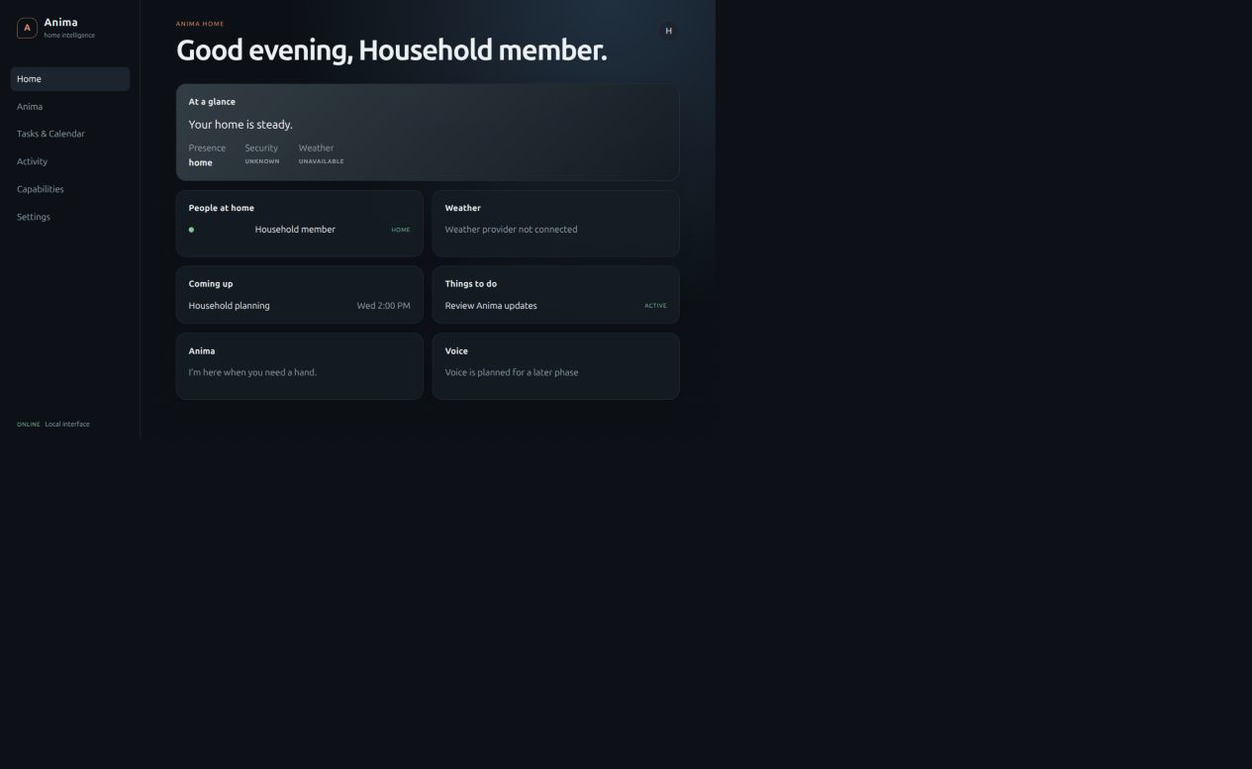
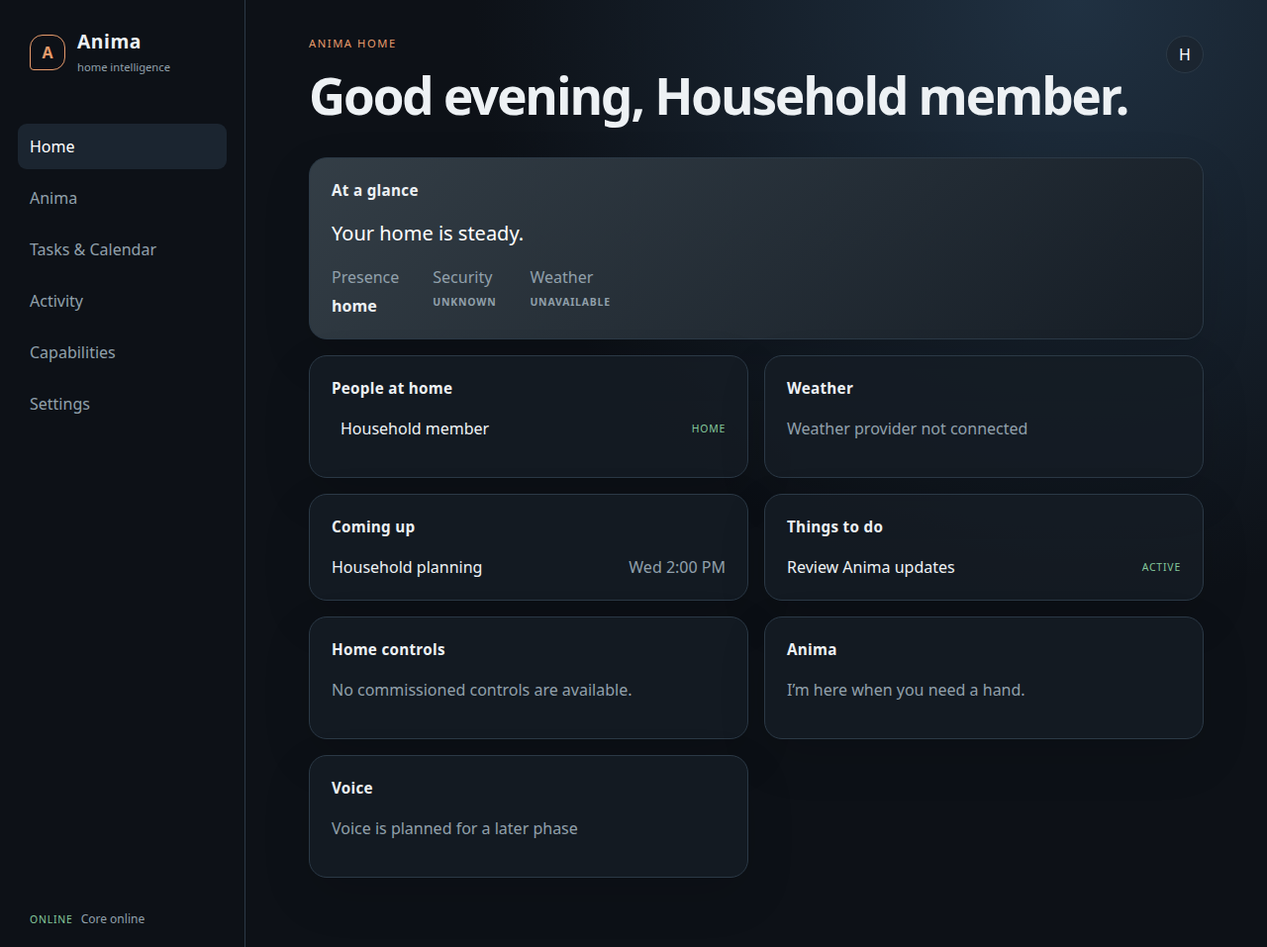
docs: close Phase 12 UX authority evidence

diff --git a/.agent/CURRENT.md b/.agent/CURRENT.md
@@ -4,31 +4,23 @@ Last updated: 2026-09-02
 
 ## Current stage
 
-PHASE 12 CUSTOM WHOLE-HOME INTERFACE — COMMISSIONED RUNTIME TRUTH CLOSURE; PENDING ARCHITECT ACCEPTANCE
+PHASE 12 CUSTOM WHOLE-HOME INTERFACE — FINAL UX/AUTHORITY CONVERGENCE; PENDING ARCHITECT ACCEPTANCE
 
 ## Current objective
 
-Deliver one shared locally hosted ANIMA interface with an ANIMA-owned API/view-model boundary, commissioned HA identity mapping, server-side hashed sessions, CSRF/origin defense, responsive React UI, bounded SSE invalidation, and production wiring to the accepted cognition/action stack. Phase 11 is Architect accepted; Phase 13 remains unauthorized.
+Deliver one shared locally hosted ANIMA interface with an ANIMA-owned API/view-model boundary, commissioned HA identity mapping, server-side hashed sessions, CSRF/origin defense, responsive React UI, bounded SSE invalidation, and production wiring to the accepted cognition/action stack. Phase 11 is Architect accepted; Phase 12 is complete pending Architect acceptance; Phase 13 remains unauthorized.
 
 ## Active directive
 
-`ANIMA-HA-P12-COMMISSIONED-RUNTIME-TRUTH-CLOSURE-014H2` — replace synthetic production commissioning seams with graph-derived identity, Truth/Graph read models, and configured accepted providers while preserving the Phase 12 portfolio boundary. Phase 11 is Architect accepted at `918365ce7c6145780112a808411d750fb0e289eb` with CI `33562645002`; Phase 12 remains pending Architect acceptance; Phase 13 is unauthorized.
+`ANIMA-HA-P12-FINAL-UX-AUTHORITY-ACCEPTANCE-CLOSURE-014H3` — complete the bounded final Phase 12 UX, authority, runtime-composition, evidence, and portfolio closure. Starting checkpoint: `7524cd67daee305e8e4bc4446623fa022fee0cd2` with hosted CI `33655737686` passed. Phase 11 is Architect accepted; Phase 12 remains pending Architect acceptance; Phase 13 is unauthorized.
 
 ## Current verified state
 
-- Phase 11 UPCitemdb implementation checkpoint: `2031f0a9ebded7e7a444516ab619f685d519349f`; hosted CI `33562526807` passed on that exact SHA. The provider is no-key and has no credential resource gate. The final live harness passed both required queries with five distinct products each.
-
-- Best Buy qualification checkpoint: governance commit
-  `7f5ddb0844195e2d558a2fbd24fac3101ae1d34e` is pushed to `origin/main` and
-  hosted CI `33509082116` passed on that exact SHA. The final evidence-closure
-  commit records the same outcome and its CI below.
-
-- Product-research closure started from governed Phase 11 checkpoint `23aa71d774c75529d7e8412e3060446d42a9cf4d`.
-- LedgerMind at `/home/sketch/Projects/LedgerMind` was inspected read-only on the Atlas laptop. Its status-only Walmart smoke test passed signature, catalogue, stores, and item-price probes; cart push remained unsupported. ANIMA copied the bounded contract, not credentials or runtime data.
-- ANIMA now exposes `anima.external.shopping.search_products` through a fixed `developer.api.walmart.com` host, ANIMA-generated RSA-SHA256 request signatures, trusted `SecretBroker` references, normalized `ProductCandidate` plus `retail_offer` data, timestamped external price/availability, and `EXTERNAL_UNTRUSTED` results. No cart, checkout, browser automation, scraping, CAPTCHA bypass, or arbitrary host is implemented.
-- Real AgentRuntime integration and provider tests pass. Credentialed Atlas live evidence returned 9 distinct candidates for `wireless headphones` and 10 for `air fryer`; both met the three-candidate usefulness threshold. Without the three operator secret references and a readable signing key, the provider remains an explicit `EXTERNAL_RESOURCE_GATE`.
-- Fresh locked validation: `uv sync --locked --dev`, Ruff, strict mypy, full pytest (`139 passed`), OPA, package sdist/wheel, `git diff --check`, and public-safety review passed. SearXNG/Overpass and existing Phase 1–10 evidence remain unchanged.
-- Phase 11 is Architect accepted at `918365ce7c6145780112a808411d750fb0e289eb`; Phase 12 is the active authorized phase. The current local integration delta uses the existing Core runtime objects rather than a UI-specific cognition or provider path.
+- The H3 implementation delta is local and limited to Phase 12: Core-owned role resolution, browser-bound OAuth nonce state, truthful capability health, PostgreSQL UI preferences, calendar version projections, real task/calendar/control UI paths, the decisive `create_app()` target, and refreshed responsive screenshots.
+- Normal configured `create_app()` composes PostgreSQL graph/Truth/journal/Attention/Context Broker/AgentRuntime/PluginManager/OPA/task/calendar/action dependencies. Only the model adapter is scripted in the deterministic target; `UnavailableCommandGateway` and the echo fallback are not selected in configured runtime.
+- `scripts/verify_phase12_final_ux.py` passed with `fallback_enabled=false`, a real Journal → Attention → ContextPacket → AgentRuntime trace, policy-gated task success, persisted settings, and explicit `EXTERNAL_RESOURCE_GATE_HA_COMMISSIONING` status.
+- Fresh validation passed: `uv sync --locked --dev`, `scripts/validate.sh` (166 Python tests, Ruff, strict mypy, OPA 7/7), package sdist/wheel, frontend unit tests, TypeScript/Vite build, Playwright 9-test desktop/tablet/phone matrix, migration repeat, commissioned-runtime target, final-UX target, `git diff --check`, and public-safety review.
+- Phase 11 active providers remain Open-Meteo, private SearXNG, OSM Overpass, TheMealDB, UPCitemdb, local PostgreSQL calendar, and ntfy. Walmart and Best Buy remain deferred historical candidates; no provider gate is silently substituted.
 
 ### Current product-provider replan
 
@@ -123,10 +115,8 @@ Deliver one shared locally hosted ANIMA interface with an ANIMA-owned API/view-m
 
 ## Current blockers
 
-- The commissioned-runtime implementation is published at `5d52c45c72520611de56361af9010419f2869c6c`; hosted CI `33654654675` passed on that exact SHA. The governed evidence closure and Architect review remain pending.
-- Production composition now derives HA identity from commissioned graph provider references (`home_assistant` / configured scope / `user`) and `MEMBER_OF` household edges; missing or ambiguous mappings fail closed. No synthetic mapping is used unless explicit `ANIMA_UI_TEST_AUTH=1` is enabled.
-- Production PostgreSQL read models now source household name, members, controls, and capabilities from the commissioned graph/Truth projection and Core plugin registry. Missing providers report neutral `UNKNOWN`/`UNAVAILABLE` state; they do not select demo data.
-- Real Home Assistant OAuth/commissioning, physical-home behavior, production TLS, and native ARM64/Pi execution remain unclaimed. The local target proves real PostgreSQL/OPA/Core composition with a scripted model adapter; HA remains an explicit commissioning gate on this host.
+- Phase 12 implementation checkpoint `37116b03c65bfac54a5261f30160e9030aa6011c` is published and hosted CI `33671817841` passed on that exact SHA. The final governed checkpoint is the closure commit containing this record; its exact SHA and hosted CI are recorded in the final Notion readback.
+- Real Home Assistant OAuth commissioning, physical-home behavior, production TLS, native ARM64/Pi execution, and live Luna credentials remain unclaimed. The local target proves real PostgreSQL/OPA/Core composition with only a scripted model adapter and reports HA as an explicit commissioning gate.
 - Phase 13 voice, checkout, compensation, and other successor behavior remain unauthorized.
 
 ## Latest accepted evidence
@@ -154,7 +144,7 @@ Deliver one shared locally hosted ANIMA interface with an ANIMA-owned API/view-m
 
 ## Next Architect decision point
 
-Review `ANIMA-HA-P12-COMMISSIONED-RUNTIME-TRUTH-CLOSURE-014H2` after the final governed checkpoint. Evidence covers graph-derived identity, real PostgreSQL/OPA task/calendar mutation, Journal → Attention → Context → AgentRuntime, active provider registry, explicit HA commissioning limits, browser privacy, and responsive screenshots. Phase 13 remains unauthorized.
+Review `ANIMA-HA-P12-FINAL-UX-AUTHORITY-ACCEPTANCE-CLOSURE-014H3` after the final governed checkpoint. Evidence covers role-derived policy context, browser-bound OAuth state, Core-routed conversation/task/calendar/control paths, PostgreSQL UI preferences, truthful capability health, browser privacy, and responsive screenshots. Phase 13 remains unauthorized.
 
 ## Phase 12 publication state — historical 014H checkpoint
 

diff --git a/docs/PHASE-12-CUSTOM-LOCAL-INTERFACE.md b/docs/PHASE-12-CUSTOM-LOCAL-INTERFACE.md
@@ -1,9 +1,11 @@
 # Phase 12 — Custom Whole-Home Interface
 
-Status: `COMPLETE — PENDING ARCHITECT ACCEPTANCE`; commissioned-runtime hardening and governed evidence closure are published.
+Status: `COMPLETE — PENDING ARCHITECT ACCEPTANCE`; final UX/authority convergence is published for independent review.
 
-Implementation checkpoint: `5d52c45c72520611de56361af9010419f2869c6c`; hosted CI `33654654675` passed on that exact SHA.
-Governed closure checkpoint: `bc7849dba3b65b837aacf2b16e8b7653fae97d08`; hosted CI `33655337251` passed on that exact SHA.
+Prior commissioned-runtime implementation checkpoint: `5d52c45c72520611de56361af9010419f2869c6c`; hosted CI `33654654675` passed on that exact SHA.
+Prior governed closure checkpoint: `bc7849dba3b65b837aacf2b16e8b7653fae97d08`; hosted CI `33655337251` passed on that exact SHA.
+
+Final UX/authority implementation checkpoint: `37116b03c65bfac54a5261f30160e9030aa6011c`; hosted CI `33671817841` passed on that exact SHA. The final governed checkpoint is the commit containing this closure record; its exact SHA and CI are recorded in the final Notion readback.
 
 Phase 11 is Architect accepted at `918365ce7c6145780112a808411d750fb0e289eb` with
 hosted CI `33562645002`. Phase 13 voice behavior is not implemented.
@@ -73,6 +75,24 @@ policy bypass. A missing configured dependency produces an explicit
 unavailable capability; the test-only echo remains behind
 `ANIMA_UI_TEST_AUTH=1`.
 
+## Final UX/authority convergence
+
+The current hardening keeps authority in Core at every browser boundary. The
+configured UI resolves the authenticated principal's semantic role from the
+commissioned graph for each command and conversation, and fails closed when
+that role is absent. Task and local-calendar mutations are policy-gated
+internal tools; home controls remain Phase 5 → Phase 4 → Phase 9 coordinated
+actions. No browser payload can provide role, provenance, provider identity, or
+execution authority.
+
+HA OAuth state is bound to the initiating browser by an expiring, single-use
+nonce cookie. Capability status is derived independently from plugin health and
+external-audit state, so degraded providers are not reported as online. UI
+preferences use migration `0014_ui_preferences.sql`, an allowlisted PostgreSQL
+store, CSRF/Origin-protected settings routes, and client-side application with
+no persistent browser storage. Calendar list projections include their
+optimistic-concurrency version.
+
 ## Stack qualification
 
 | Layer | Adopted version | Role | License/source |
@@ -121,7 +141,9 @@ maps the fixed test user. An unmapped HA user fails closed with
 | `GET /api/v1/tasks` | household-scoped task projection | session |
 | `POST /api/v1/tasks...` | task mutations | session + CSRF + Core gateway |
 | `GET /api/v1/calendar` | local calendar projection | session |
-| `POST /api/v1/calendar` | calendar mutation | session + CSRF + Core gateway |
+| `POST /api/v1/calendar` | calendar create mutation | session + CSRF + Core gateway |
+| `POST /api/v1/calendar/{event_id}/{operation}` | calendar update/cancel mutation | session + CSRF + Core gateway + expected version |
+| `GET /api/v1/settings` / `PUT /api/v1/settings` | allowlisted presentation preferences | session / session + CSRF + Origin |
 | `GET /api/v1/activity` | bounded sanitized activity | session |
 | `GET /api/v1/capabilities` | availability/health projection | session |
 | `POST /api/v1/conversation` | normalized direct-user request ingress | session + CSRF + journal → attention → context → AgentRuntime |
@@ -152,9 +174,10 @@ is present.
 
 ## Validation boundary
 
-Deterministic backend tests cover health/auth, single-use OAuth state, exact
-principal mapping, hashed sessions, expiry/revocation, CSRF/Origin, semantic
-view-model projection, journaled request provenance, and Core-routed commands.
+Deterministic backend tests cover health/auth, browser-bound single-use OAuth
+state, exact principal/role mapping, hashed sessions, expiry/revocation,
+CSRF/Origin, semantic view-model projection, journaled request provenance,
+allowlisted settings persistence, and Core-routed commands.
 The integrated composition test exercises the real AgentRuntime from an event
 trigger; the echo response is test-only and is not used by the normal
 configured path.

diff --git a/.agent/tasks/completed/ANIMA-HA-P12-FINAL-UX-AUTHORITY-ACCEPTANCE-CLOSURE-014H3/EVIDENCE.md b/.agent/tasks/completed/ANIMA-HA-P12-FINAL-UX-AUTHORITY-ACCEPTANCE-CLOSURE-014H3/EVIDENCE.md
@@ -1,0 +1,69 @@
+# Phase 12 H3 evidence
+
+## Publication
+
+- Starting governed checkpoint: `7524cd67daee305e8e4bc4446623fa022fee0cd2`; hosted CI `33655737686` passed.
+- Implementation checkpoint: `37116b03c65bfac54a5261f30160e9030aa6011c`; hosted CI `33671817841` passed on that exact SHA.
+- Final governed checkpoint: the governance commit containing this packet and the synchronized Authority/docs closure. Its exact SHA and hosted CI are recorded in the final handoff and Notion readback after push; the packet does not make a self-referential hash claim.
+
+## Architecture and target evidence
+
+- `create_app()` composes the real PostgreSQL graph, Truth, Event Journal,
+  Attention, Context Broker, AgentRuntime, PluginManager/Tool Gateway, OPA,
+  durable-task, local-calendar, and Phase 9 action dependencies when configured.
+- `CoreUICommandGateway` routes task, calendar, and home-control mutations
+  through the existing policy/tool boundaries. No API handler calls a domain
+  service directly.
+- `CoreConversationPipeline` routes the direct-user event through Journal →
+  Attention → ContextPacket → AgentRuntime. The deterministic target reports
+  linked event, trigger, context-packet, correlation, causation, and episode
+  IDs with `fallback_enabled=false`; only the model response is scripted.
+- Policy role is resolved from commissioned graph PERSON metadata for every
+  governed operation. Missing roles fail closed; browser payloads cannot set a
+  role or provenance.
+- HA OAuth state uses server-side expiry/single use plus an initiating-browser
+  nonce cookie. Mismatch, expiry, and replay are rejected.
+- Active external providers receive `ExternalAuditJournalSink(journal)` and
+  capability projections distinguish available, degraded, and unavailable.
+- Migration `0014_ui_preferences.sql` stores only allowlisted presentation
+  preferences. Calendar projections include event `version` for conflict-safe
+  update/cancel operations.
+
+## Validation
+
+- `uv sync --locked --dev`: PASS.
+- `scripts/validate.sh`: PASS — 166 Python tests, Ruff, strict mypy, OPA 7/7.
+- `uv build --sdist --wheel`: PASS.
+- Frontend `pnpm test`: PASS — 2 tests.
+- Frontend TypeScript/Vite production build: PASS.
+- Playwright: PASS — 9 tests across desktop, tablet, and phone.
+- PostgreSQL migration initial/repeat: PASS — no pending migrations on repeat.
+- `verify_phase12_commissioned_runtime.py`: PASS — real PostgreSQL/OPA/Core
+  composition, graph identity, policy-gated task/calendar mutation, and
+  Journal → Attention → ContextPacket → AgentRuntime trace.
+- `verify_phase12_final_ux.py`: PASS — configured `create_app()` composition,
+  real task mutation, conversation trace, settings persistence, and explicit
+  HA commissioning gate.
+- `git diff --check`: PASS.
+- Public-safety scan: PASS — no credentials, private keys, runtime state, or
+  secret material added.
+
+## Browser evidence
+
+Screenshots were captured from the running application with synthetic data and
+the explicit test-auth flag, then MIME-verified as PNG:
+
+- `docs/assets/anima-home-desktop.png`
+- `docs/assets/anima-home-tablet.png`
+- `docs/assets/anima-home-phone.png`
+
+The Playwright matrix also passed same-origin API/network posture, dashboard,
+conversation, navigation, and responsive viewport checks. Browser persistent
+storage remains unused; restricted product content is not persisted by the UI.
+
+## Evidence limits
+
+No live Home Assistant OAuth consent, physical-home behavior, production TLS,
+live Luna credential turn, native ARM64/Pi execution, or real household-data
+claim is made. HA remains an explicit commissioning gate on this host. Phase
+13 Voice Software Path was not implemented.

diff --git a/.agent/DIRECTIVES.md b/.agent/DIRECTIVES.md
@@ -405,6 +405,17 @@ Append new directives at the bottom; never rewrite an accepted historical direct
 - Required operator action: inspect only nonsecret Walmart.io/Impact application metadata in an already-authorized session, then obtain narrow Walmart clarification if the private local assistant/data/link use is not explicit. No account changes or agreement acceptance are authorized.
 - Source: Architect directive supplied in the governed session and recorded in the canonical Notion SSOT.
 
+## ANIMA-HA-P12-FINAL-UX-AUTHORITY-ACCEPTANCE-CLOSURE-014H3 — Final UX and authority convergence
+
+- Issued: 2026-09-02
+- Architect disposition: `CONTINUE / FINAL CONVERGENCE`; Phases 0–11 accepted; Phase 13 unauthorized.
+- Starting governed checkpoint: `7524cd67daee305e8e4bc4446623fa022fee0cd2`; hosted CI `33655737686` passed on that exact SHA.
+- Objective: close the bounded Phase 12 authority, production-composition, UI capability, preferences, real task/calendar/control-path, browser-evidence, portfolio, and governance gaps without changing accepted Phase 0–11 architecture.
+- Bounded implementation: graph-derived semantic roles are re-resolved for each governed operation; HA OAuth state is browser-bound, expiring, and single-use; active external providers receive journal audit sinks; capabilities report available/degraded/unavailable honestly; preferences use allowlisted PostgreSQL migration `0014_ui_preferences.sql`; calendar version is returned for conflict-safe UI mutation; task/calendar/control and conversation paths remain Core/Phase 5/4/9 routed.
+- Evidence: `scripts/verify_phase12_final_ux.py` passed against real PostgreSQL/OPA/Core composition with only a scripted model; `scripts/validate.sh` passed 166 tests, Ruff, strict mypy, and OPA 7/7; frontend tests/build/Playwright 9-test responsive matrix, migrations, package build, screenshots, diff-check, and public-safety checks passed.
+- Evidence limits: HA OAuth commissioning, physical-home execution, live Luna credentials, native ARM64/Pi, production TLS, and real household data remain unclaimed. Phase 12 status is `COMPLETE — PENDING ARCHITECT ACCEPTANCE`; Phase 13 was not implemented.
+- Source: Architect directive supplied in the governed session and retained as the active continuity record.
+
 ## ANIMA-HA-P12-COMMISSIONED-RUNTIME-TRUTH-CLOSURE-014H2 — Commissioned runtime truth closure
 
 - Date: 2026-09-02

diff --git a/.agent/OUTCOMES.md b/.agent/OUTCOMES.md
@@ -717,3 +717,12 @@ Evidence is x86-64 and local/isolated; native ARM64/Pi, physical-home, productio
 - Implementation checkpoint: `5d52c45c72520611de56361af9010419f2869c6c`; hosted CI `33654654675` passed on that exact SHA.
 - The checkpoint publishes the commissioned graph-identity resolver, graph/Truth/plugin-backed PostgreSQL UI read models, accepted Phase 11 provider composition, explicit HA commissioning configuration, and the deterministic real PostgreSQL/OPA verification target. No Phase 13 behavior was added.
 - Governed closure checkpoint: `bc7849dba3b65b837aacf2b16e8b7653fae97d08`; hosted CI `33655337251` passed on that exact SHA. Status: `COMPLETE — PENDING ARCHITECT ACCEPTANCE`.
+
+## ANIMA-HA-P12-FINAL-UX-AUTHORITY-ACCEPTANCE-CLOSURE-014H3 — Final convergence
+
+- Starting governed checkpoint: `7524cd67daee305e8e4bc4446623fa022fee0cd2`; hosted CI `33655737686` passed on that exact SHA.
+- Implementation checkpoint: `37116b03c65bfac54a5261f30160e9030aa6011c`; hosted CI `33671817841` passed on that exact SHA.
+- Implementation result: configured `create_app()` now composes the existing PostgreSQL/OPA/Core cognition and command stack; semantic role is resolved from commissioned graph authority per operation; OAuth state is browser-bound and single-use; external audit sinks and capability-health projections are active; allowlisted UI preferences persist in PostgreSQL; calendar versions support honest UI concurrency; task/calendar/control UI operations use the existing governed gateways.
+- Evidence: `scripts/validate.sh` passed 166 Python tests, Ruff, strict mypy, and OPA 7/7; frontend unit tests, TypeScript/Vite build, Playwright 9-test responsive matrix, package build, repeat migrations, commissioned-runtime target, final-UX target, screenshot capture/MIME checks, diff-check, and public-safety review passed.
+- Final governed checkpoint: this governance closure commit, pushed after the implementation checkpoint and exact implementation CI. Its exact SHA and hosted CI are recorded in the final Notion readback; the closure files avoid a self-referential hash claim.
+- Verdict: `COMPLETE — PENDING ARCHITECT ACCEPTANCE`. Evidence limits remain live HA commissioning, physical-home behavior, live Luna credentials, native ARM64/Pi execution, production TLS, and real household data. Phase 13 was not implemented.

diff --git a/README.md b/README.md
@@ -49,6 +49,7 @@ These screenshots are captured from the tested local application with synthetic 
 - Home Assistant OAuth boundary, exact principal mapping, hashed server sessions, CSRF/origin protection, and same-origin browser policy.
 - Configured conversation composition into Attention, Context Broker, and AgentRuntime; task and local-calendar mutations use the Phase 5/4 policy path.
 - Phase 9-coordinated semantic home controls when a commissioned Home Assistant provider is available.
+- Core-owned identity roles are re-resolved for every governed operation; UI preferences are allowlisted and persisted in PostgreSQL; OAuth state is browser-bound, expiring, and single-use.
 - Bounded external capabilities: Open-Meteo, private SearXNG, OSM Overpass, TheMealDB, UPCitemdb, local PostgreSQL calendar, and ntfy; provider activation is composed by Core and unavailable providers are reported honestly.
 - Restart-safe durable tasks, guaranteed scheduled-reasoning events, fresh due-time context, and restricted external-content handling.
 
@@ -58,7 +59,7 @@ Identity and policy are ANIMA-owned. Tool schemas expose intent, not secrets or 
 
 ## Evidence
 
-Phases 0–11 are Architect accepted. Phase 12 is the active integration and portfolio phase. The [Authority state](.agent/CURRENT.md), [Phase 12 documentation](docs/PHASE-12-CUSTOM-LOCAL-INTERFACE.md), and completed task packet distinguish deterministic contract tests, integration tests, isolated Home Assistant evidence, live public synthetic provider evidence, and unperformed production commissioning.
+Phases 0–11 are Architect accepted. Phase 12 implementation is complete and pending Architect acceptance. The [Authority state](.agent/CURRENT.md), [Phase 12 documentation](docs/PHASE-12-CUSTOM-LOCAL-INTERFACE.md), and completed task packet distinguish deterministic contract tests, integrated PostgreSQL/OPA evidence, isolated Home Assistant evidence, live public synthetic provider evidence, and unperformed production commissioning.
 
 ## Implemented Phase 0 through Phase 11 baseline
 

diff --git a/.agent/REPO_MAP.md b/.agent/REPO_MAP.md
@@ -131,11 +131,14 @@ The `src/anima_ha/db` area owns ordered migrations. Phase 1 journal/truth behavi
 
 - `src/anima_ha/ui_api.py` — ANIMA-owned FastAPI semantic API, HA OAuth bootstrap, exact identity mapping, hashed sessions/CSRF, bounded SSE invalidations, and fail-closed Core command/conversation seams.
 - `src/anima_ha/db/migrations/0013_ui_sessions.sql` — server-side UI session/CSRF digest schema.
+- `src/anima_ha/db/migrations/0014_ui_preferences.sql` — bounded allowlisted PostgreSQL UI preference storage.
+- `scripts/verify_phase12_final_ux.py` — deterministic real `create_app()` PostgreSQL/OPA/Core composition target; only the model response is scripted.
 - `ui/` — React/TypeScript/Vite responsive single-page interface, same-origin browser policy tests, and Playwright desktop/tablet/phone scenarios.
 - `Dockerfile.ui` and `compose.yaml` — reproducible non-root local UI image and loopback-published Compose service.
 - `scripts/verify_phase12_ui.py` and `tests/test_ui_api.py` — deterministic API/auth/view-model/CSRF/SSE evidence.
 - `docs/PHASE-12-CUSTOM-LOCAL-INTERFACE.md` — current interface architecture, security boundary, deployment, and evidence limitations.
-- `.agent/tasks/active/ANIMA-HA-P12-CUSTOM-LOCAL-INTERFACE-014/` — active Phase 12 specification, plan, evidence ledger, and handoff.
+- `.agent/tasks/completed/ANIMA-HA-P12-CUSTOM-LOCAL-INTERFACE-014/` — historical Phase 12 specification, evidence ledger, and handoff.
+- `.agent/tasks/completed/ANIMA-HA-P12-FINAL-UX-AUTHORITY-ACCEPTANCE-CLOSURE-014H3/` — final UX/authority convergence evidence and governance packet.
 - `docs/assets/anima-home-desktop.png`, `anima-home-tablet.png`, `anima-home-phone.png` — responsive screenshots captured from the tested UI with synthetic data.
 
 ## Known sensitive/high-risk areas

diff --git a/.agent/LEARNINGS.md b/.agent/LEARNINGS.md
@@ -182,3 +182,11 @@ Any future history rewrite proposal, remote migration, or change to the reposito
 - Production identity must resolve from commissioned provider references to a canonical person and graph membership, never from a UI fallback map or display name. Exact-zero and multi-target results are distinct fail-closed outcomes.
 - The normal PostgreSQL composition can register no-key/qualified Phase 11 providers without activating Walmart or Best Buy; Home Assistant must remain unavailable until its instance, websocket, provider scope, and secret reference are complete.
 - Production read models must consume the graph, Truth projection, and plugin registry. A missing provider is an explicit capability/state result, not a reason to reuse deterministic demo household content.
+
+## ANIMA-HA-P12-FINAL-UX-AUTHORITY-ACCEPTANCE-CLOSURE-014H3
+
+- UI policy context must resolve semantic role from the commissioned graph at the Core boundary for each request; a browser session proves identity but must not carry or choose authorization role.
+- OAuth callback state needs a browser-bound nonce cookie in addition to a server-side expiring single-use state record; state-only validation does not bind the initiating browser.
+- Capability health is a projection, not a static manifest label: plugin enablement, latest provider error, and external audit evidence must distinguish available from degraded and unavailable.
+- Calendar UI mutation needs the server-projected optimistic-concurrency version; otherwise a later update can unknowingly reuse a stale expected version.
+- Persistent PostgreSQL evidence targets must be rerunnable against existing fixtures. Synthetic commissioning IDs/scopes must not collide across separate targets, or the production resolver correctly fails closed on ambiguous mappings.

diff --git a/.agent/tasks/completed/ANIMA-HA-P12-FINAL-UX-AUTHORITY-ACCEPTANCE-CLOSURE-014H3/HANDOFF.md b/.agent/tasks/completed/ANIMA-HA-P12-FINAL-UX-AUTHORITY-ACCEPTANCE-CLOSURE-014H3/HANDOFF.md
@@ -1,0 +1,20 @@
+# Handoff — ANIMA-HA-P12-FINAL-UX-AUTHORITY-ACCEPTANCE-CLOSURE-014H3
+
+Verdict: `COMPLETE — PENDING ARCHITECT ACCEPTANCE`.
+
+Implementation checkpoint: `37116b03c65bfac54a5261f30160e9030aa6011c`.
+Implementation CI: `33671817841` — success on that exact SHA.
+Final governed checkpoint: the governance commit containing the completed H3
+packet and synchronized records; exact SHA/CI are recorded in the final
+publication readback and Notion after push.
+
+The final Phase 12 implementation composes the configured UI with the accepted
+ANIMA Core cognition and action stack, resolves policy role from commissioned
+graph authority, protects OAuth callback state with browser-bound nonce
+cookies, reports external capability health honestly, persists bounded UI
+preferences, and exposes real policy-gated task/calendar/control paths.
+
+Fresh local and hosted validation passed. The evidence boundary remains local
+x86-64 with a scripted model adapter and synthetic UI data; it does not claim
+live HA commissioning, physical-home behavior, native ARM64/Pi execution,
+production TLS, or a live Luna turn. Phase 13 was not implemented.

diff --git a/.agent/tasks/completed/ANIMA-HA-P12-FINAL-UX-AUTHORITY-ACCEPTANCE-CLOSURE-014H3/DIRECTIVE.md b/.agent/tasks/completed/ANIMA-HA-P12-FINAL-UX-AUTHORITY-ACCEPTANCE-CLOSURE-014H3/DIRECTIVE.md
@@ -1,0 +1,20 @@
+# Directive record
+
+## Objective
+
+Close the final Phase 12 UX and authority convergence gaps: Core-owned role
+resolution, browser-bound OAuth state, provider health/audit visibility,
+allowlisted PostgreSQL UI preferences, real task/calendar/control paths,
+decisive configured `create_app()` composition, responsive browser evidence,
+and synchronized portfolio/governance records.
+
+## Boundaries
+
+Preserve the accepted Phase 0–11 architecture, Phase 4 policy, Phase 5
+gateway, Phase 7 attention/context, Phase 8 AgentRuntime, Phase 9 action
+execution, Phase 10 tasks, Phase 11 providers, and restricted-content rules.
+Do not add a second runtime, broker, database, provider, UI framework, direct
+provider path, production-home claim, or Phase 13 behavior.
+
+Architect disposition: `CONTINUE / FINAL CONVERGENCE`.
+Starting checkpoint: `7524cd67daee305e8e4bc4446623fa022fee0cd2`.

diff --git a/.agent/tasks/completed/ANIMA-HA-P12-FINAL-UX-AUTHORITY-ACCEPTANCE-CLOSURE-014H3/README.md b/.agent/tasks/completed/ANIMA-HA-P12-FINAL-UX-AUTHORITY-ACCEPTANCE-CLOSURE-014H3/README.md
@@ -1,0 +1,9 @@
+# ANIMA-HA-P12-FINAL-UX-AUTHORITY-ACCEPTANCE-CLOSURE-014H3
+
+Final bounded Phase 12 convergence packet. Phase 12 is `COMPLETE — PENDING ARCHITECT ACCEPTANCE`; Phase 13 is unauthorized.
+
+Starting governed checkpoint: `7524cd67daee305e8e4bc4446623fa022fee0cd2` (CI `33655737686`).
+
+- `DIRECTIVE.md` — authorized scope and exclusions.
+- `EVIDENCE.md` — implementation, runtime, browser, and governance evidence.
+- `HANDOFF.md` — final result contract and evidence limits.
